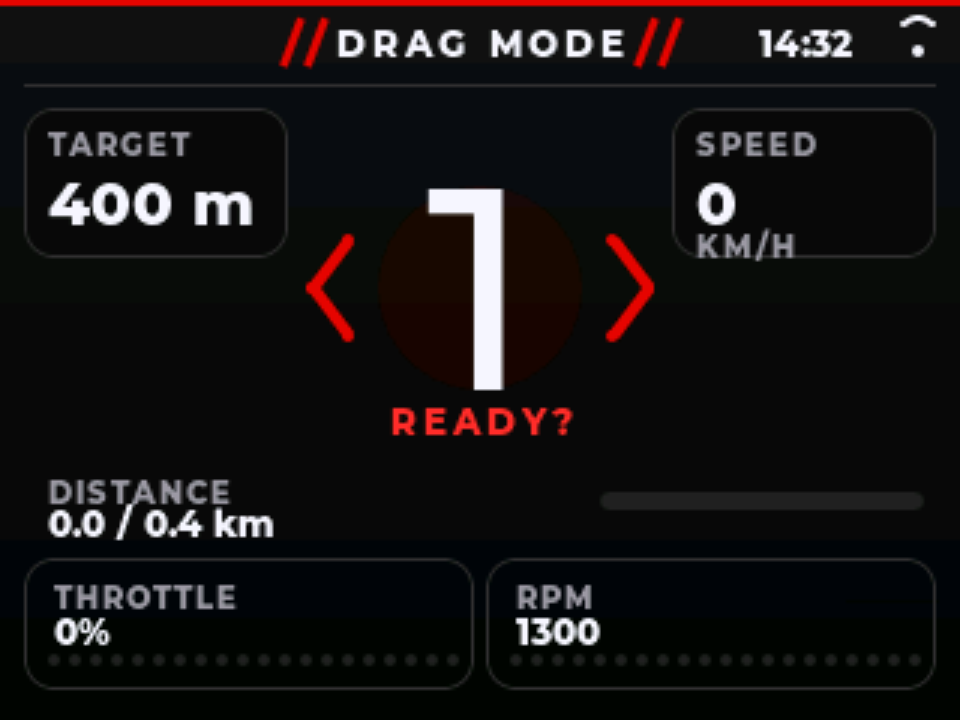
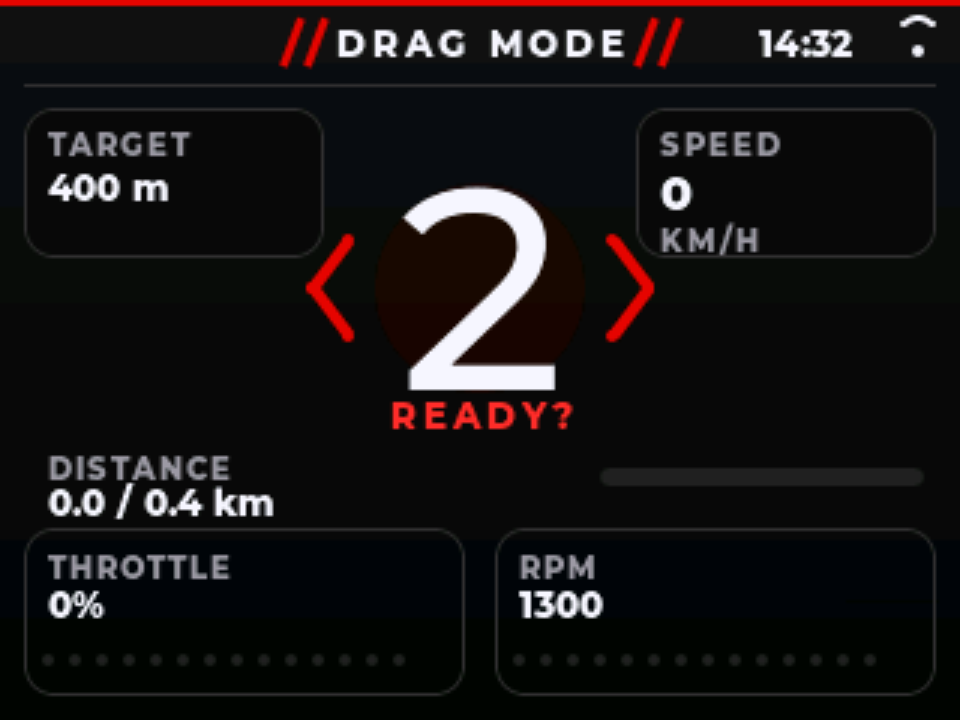
fix: tighten drag and GPS clock layouts

diff --git a/src/ui/ui_drag.cpp b/src/ui/ui_drag.cpp
@@ -39,30 +39,31 @@ void panel_card(lv_layer_t* layer, const Palette& p, int x, int y, int w, int h)
 }
 
 // Deretan titik segmen. 25% titik terakhir berwarna merah.
-void dots(lv_layer_t* layer, const Palette& p, int x, int y, int count, float level) {
+void dots(lv_layer_t* layer, const Palette& p, int x, int y, int count, float level, int span) {
+    const int step = span / (count - 1);
     for (int i = 0; i < count; ++i) {
         const float pos = (float)(i + 1) / (float)count;
         lv_color_t c = p.seg_off;
         if (pos <= level + 0.001f) c = (i >= count * 3 / 4) ? kRedBright : kWhite;
-        draw::circle(layer, x + i * 7, y, 2, c, LV_OPA_COVER);
+        draw::circle(layer, x + i * step, y, 2, c, LV_OPA_COVER);
     }
 }
 
 // Kartu throttle dan RPM di baris bawah.
 void live_cards(lv_layer_t* layer, const Palette& p, const Telemetry& t, int y, int h) {
-    panel_card(layer, p, 8, y, 150, h);
-    draw::text(layer, "THROTTLE", &font_ui_10, kMuted, 18, y + 7, draw::Align::Left, 1);
+    panel_card(layer, p, 8, y, 147, h);
+    draw::text(layer, "THROTTLE", &font_ui_10, kMuted, 16, y + 7, draw::Align::Left, 1);
     char th[12];
     std::snprintf(th, sizeof(th), "%.0f%%", t.throttle);
-    draw::text(layer, th, &font_ui_12, p.ink, 18, y + 18, draw::Align::Left, 0);
-    dots(layer, p, 18, y + h - 10, 20, clamp01(t.throttle / 100.0f));
+    draw::text(layer, th, &font_ui_12, p.ink, 16, y + 19, draw::Align::Left, 0);
+    dots(layer, p, 16, y + h - 12, 14, clamp01(t.throttle / 100.0f), 120);
 
-    panel_card(layer, p, 162, y, 150, h);
-    draw::text(layer, "RPM", &font_ui_10, kMuted, 172, y + 7, draw::Align::Left, 1);
+    panel_card(layer, p, 165, y, 147, h);
+    draw::text(layer, "RPM", &font_ui_10, kMuted, 173, y + 7, draw::Align::Left, 1);
     char rpm[12];
     std::snprintf(rpm, sizeof(rpm), "%.0f", t.rpm);
-    draw::text(layer, rpm, &font_ui_12, p.ink, 172, y + 18, draw::Align::Left, 0);
-    dots(layer, p, 172, y + h - 10, 20, clamp01((t.rpm - 1000.0f) / 8200.0f));
+    draw::text(layer, rpm, &font_ui_12, p.ink, 173, y + 19, draw::Align::Left, 0);
+    dots(layer, p, 173, y + h - 12, 14, clamp01((t.rpm - 1000.0f) / 8200.0f), 120);
 }
 
 } // namespace
@@ -140,8 +141,8 @@ void DragView::update(const DragSession& drag, const Telemetry& t, const PerfSta
             lv_obj_invalidate_area(root_, &digit);
             if (stats_accum_ >= 0.1f) {
                 stats_accum_ = 0.0f;
-                lv_area_t speed_card{222, 34, 314, 88};
-                lv_area_t cards{6, 184, 314, 232};
+                lv_area_t speed_card{210, 34, 314, 90};
+                lv_area_t cards{6, 174, 314, 232};
                 lv_obj_invalidate_area(root_, &speed_card);
                 lv_obj_invalidate_area(root_, &cards);
             }
@@ -152,9 +153,9 @@ void DragView::update(const DragSession& drag, const Telemetry& t, const PerfSta
             lv_obj_invalidate_area(root_, &timer);
             if (stats_accum_ >= 0.1f) {
                 stats_accum_ = 0.0f;
-                lv_area_t speed{6, 98, 104, 152};
-                lv_area_t distance{112, 98, 314, 142};
-                lv_area_t cards{6, 160, 314, 232};
+                lv_area_t speed{6, 94, 114, 164};
+                lv_area_t distance{114, 96, 314, 144};
+                lv_area_t cards{6, 164, 314, 232};
                 lv_obj_invalidate_area(root_, &speed);
                 lv_obj_invalidate_area(root_, &distance);
                 lv_obj_invalidate_area(root_, &cards);
@@ -164,7 +165,7 @@ void DragView::update(const DragSession& drag, const Telemetry& t, const PerfSta
         case DragPhase::Idle:
             if (stats_accum_ >= 0.1f) {
                 stats_accum_ = 0.0f;
-                lv_area_t cards{6, 180, 314, 232};
+                lv_area_t cards{6, 174, 314, 232};
                 lv_obj_invalidate_area(root_, &cards);
             }
             break;
@@ -240,41 +241,41 @@ void DragView::draw_card(lv_layer_t* layer, int x, int y, int w, int h) {
 }
 
 void DragView::draw_idle(lv_layer_t* layer) {
-    draw_card(layer, 8, 36, 88, 50);
+    draw_card(layer, 8, 36, 100, 44);
     draw::text(layer, "TARGET", &font_ui_10, kMuted, 16, 42, draw::Align::Left, 1);
     char target[16];
     format_distance(target, sizeof(target), settings_.target_distance_m);
-    draw::text(layer, target, &font_ui_20, palette_.ink, 16, 58, draw::Align::Left, 0);
+    draw::text(layer, target, &font_ui_12, palette_.ink, 16, 56, draw::Align::Left, 0);
 
-    draw_card(layer, 224, 36, 88, 50);
-    draw::text(layer, "COUNTDOWN", &font_ui_10, kMuted, 232, 42, draw::Align::Left, 1);
+    draw_card(layer, 212, 36, 100, 44);
+    draw::text(layer, "COUNTDOWN", &font_ui_10, kMuted, 220, 42, draw::Align::Left, 1);
     char cd[16];
     std::snprintf(cd, sizeof(cd), "%.1f s", (float)settings_.countdown_ms / 1000.0f);
-    draw::text(layer, cd, &font_ui_20, palette_.ink, 232, 58, draw::Align::Left, 0);
+    draw::text(layer, cd, &font_ui_12, palette_.ink, 220, 56, draw::Align::Left, 0);
 
-    draw::text_in(layer, "00:00.00", &font_timer_46, palette_.ink, 160, 84,
+    draw::text_in(layer, "00:00.00", &font_timer_46, palette_.ink, 160, 100,
                   draw::Align::Center, 1, LV_OPA_60);
-    draw::text_in(layer, "READY TO LAUNCH", &font_ui_12, kRedBright, 160, 128,
+    draw::text_in(layer, "READY TO LAUNCH", &font_ui_12, kRedBright, 160, 140,
                   draw::Align::Center, 2);
-    draw::text_in(layer, "PRESS SPACE TO ARM", &font_ui_10, kMuted, 160, 152,
+    draw::text_in(layer, "PRESS SPACE TO ARM", &font_ui_10, kMuted, 160, 158,
                   draw::Align::Center, 1);
 
-    live_cards(layer, palette_, telemetry_, 182, 48);
+    live_cards(layer, palette_, telemetry_, 176, 56);
 }
 
 void DragView::draw_countdown(lv_layer_t* layer) {
-    draw_card(layer, 8, 36, 88, 50);
+    draw_card(layer, 8, 36, 100, 50);
     draw::text(layer, "TARGET", &font_ui_10, kMuted, 16, 42, draw::Align::Left, 1);
     char target[16];
     format_distance(target, sizeof(target), settings_.target_distance_m);
-    draw::text(layer, target, &font_ui_20, palette_.ink, 16, 58, draw::Align::Left, 0);
+    draw::text(layer, target, &font_ui_12, palette_.ink, 16, 56, draw::Align::Left, 0);
 
-    draw_card(layer, 224, 36, 88, 50);
-    draw::text(layer, "SPEED", &font_ui_10, kMuted, 232, 42, draw::Align::Left, 1);
+    draw_card(layer, 212, 36, 100, 50);
+    draw::text(layer, "SPEED", &font_ui_10, kMuted, 220, 42, draw::Align::Left, 1);
     char spd[16];
     std::snprintf(spd, sizeof(spd), "%.0f", speed_);
-    draw::text(layer, spd, &font_ui_20, palette_.ink, 232, 58, draw::Align::Left, 0);
-    draw::text(layer, "KM/H", &font_ui_10, kMuted, 232, 76, draw::Align::Left, 1);
+    draw::text(layer, spd, &font_ui_16, palette_.ink, 220, 56, draw::Align::Left, 0);
+    draw::text(layer, "KM/H", &font_ui_10, kMuted, 220, 74, draw::Align::Left, 1);
 
     // Angka hitung mundur di tengah, dengan cahaya merah di belakang.
     const float pulse = 0.5f + 0.5f * std::sin(anim_ * 2.0f);
@@ -292,19 +293,19 @@ void DragView::draw_countdown(lv_layer_t* layer) {
     draw::text_in(layer, digit, &font_count_96, kWhite, 160, 96, draw::Align::Center, 0);
 
     draw::text_in(layer, countdown_digit_ > 0 ? "READY?" : "LAUNCH", &font_ui_12, kRedBright,
-                  160, 140, draw::Align::Center, 2);
+                  160, 138, draw::Align::Center, 2);
 
     // Baris jarak dengan bar progres.
-    draw::text(layer, "DISTANCE", &font_ui_10, kMuted, 16, 158, draw::Align::Left, 1);
+    draw::text(layer, "DISTANCE", &font_ui_10, kMuted, 16, 150, draw::Align::Left, 1);
     char dist[40];
     std::snprintf(dist, sizeof(dist), "%.1f / %.1f km", distance_ / 1000.0f,
                   settings_.target_distance_m / 1000.0f);
-    draw::text(layer, dist, &font_ui_12, palette_.ink, 16, 168, draw::Align::Left, 0);
-    draw::rect(layer, 200, 164, 108, 6, 3, palette_.seg_off, LV_OPA_COVER);
+    draw::text(layer, dist, &font_ui_12, palette_.ink, 16, 161, draw::Align::Left, 0);
+    draw::rect(layer, 200, 156, 108, 6, 3, palette_.seg_off, LV_OPA_COVER);
     const int fill = (int)std::lround(108 * clamp01(progress_));
-    if (fill > 0) draw::rect(layer, 200, 164, fill, 6, 3, kRed, LV_OPA_COVER);
+    if (fill > 0) draw::rect(layer, 200, 156, fill, 6, 3, kRed, LV_OPA_COVER);
 
-    live_cards(layer, palette_, telemetry_, 186, 44);
+    live_cards(layer, palette_, telemetry_, 176, 56);
 }
 
 void DragView::draw_running(lv_layer_t* layer) {
@@ -319,39 +320,39 @@ void DragView::draw_running(lv_layer_t* layer) {
 
     char time_buf[16];
     format_time(time_buf, sizeof(time_buf), elapsed_);
-    draw::text_in(layer, time_buf, &font_timer_46, paused ? kRedBright : palette_.ink, 160, 70,
-                  draw::Align::Center, 1);
+    draw::text_in(layer, time_buf, &font_timer_46, paused ? kRedBright : palette_.ink, 160, 66,
+                  draw::Align::Center, 0);
 
     // Kartu kecepatan.
-    draw_card(layer, 8, 100, 92, 50);
-    draw::text(layer, "SPEED", &font_ui_10, kMuted, 16, 106, draw::Align::Left, 1);
+    draw_card(layer, 8, 96, 104, 64);
+    draw::text(layer, "SPEED", &font_ui_10, kMuted, 16, 102, draw::Align::Left, 1);
     char speed[16];
     std::snprintf(speed, sizeof(speed), "%.0f", speed_);
-    draw::text(layer, speed, &font_ui_20, palette_.ink, 16, 118, draw::Align::Left, 0);
-    draw::text(layer, "KM/H", &font_ui_10, kMuted, 16, 139, draw::Align::Left, 1);
+    draw::text(layer, speed, &font_ui_20, palette_.ink, 16, 114, draw::Align::Left, 0);
+    draw::text(layer, "KM/H", &font_ui_10, kMuted, 16, 140, draw::Align::Left, 1);
 
     // Jarak, PB, dan bar progres.
-    draw::text(layer, "DISTANCE", &font_ui_10, kMuted, 116, 102, draw::Align::Left, 1);
+    draw::text(layer, "DISTANCE", &font_ui_10, kMuted, 122, 100, draw::Align::Left, 1);
     if (best_ > 0.0f) {
         char bt[16];
         char pb[32];
         format_time(bt, sizeof(bt), best_);
         std::snprintf(pb, sizeof(pb), "PB %s", bt);
-        draw::text(layer, pb, &font_ui_10, kMuted, 308, 102, draw::Align::Right, 0);
+        draw::text(layer, pb, &font_ui_10, kMuted, 312, 100, draw::Align::Right, 0);
     }
     char dist[40];
     std::snprintf(dist, sizeof(dist), "%.2f / %.1f km", distance_ / 1000.0f,
                   settings_.target_distance_m / 1000.0f);
-    draw::text(layer, dist, &font_ui_12, palette_.ink, 116, 114, draw::Align::Left, 0);
+    draw::text(layer, dist, &font_ui_12, palette_.ink, 122, 112, draw::Align::Left, 0);
 
-    const int bar_x = 116;
-    const int bar_w = 196;
-    draw::rect(layer, bar_x, 132, bar_w, 6, 3, palette_.seg_off, LV_OPA_COVER);
+    const int bar_x = 122;
+    const int bar_w = 190;
+    draw::rect(layer, bar_x, 136, bar_w, 6, 3, palette_.seg_off, LV_OPA_COVER);
     const int fill = (int)std::lround(bar_w * clamp01(progress_));
-    if (fill > 0) draw::rect(layer, bar_x, 132, fill, 6, 3, kRed, LV_OPA_COVER);
-    draw::circle(layer, bar_x + fill, 135, 4, kWhite, LV_OPA_COVER);
+    if (fill > 0) draw::rect(layer, bar_x, 136, fill, 6, 3, kRed, LV_OPA_COVER);
+    draw::circle(layer, bar_x + fill, 139, 4, kWhite, LV_OPA_COVER);
 
-    live_cards(layer, palette_, telemetry_, 162, 68);
+    live_cards(layer, palette_, telemetry_, 166, 64);
 }
 
 void DragView::draw_finished(lv_layer_t* layer) {

diff --git a/src/ui/ui_gps_clock.cpp b/src/ui/ui_gps_clock.cpp
@@ -24,10 +24,10 @@ void panel_card(lv_layer_t* layer, const Palette& p, int x, int y, int w, int h)
 void stat_card(lv_layer_t* layer, const Palette& p, int x, int y, int w, int h,
                const char* label, const char* value, const char* unit) {
     panel_card(layer, p, x, y, w, h);
-    draw::text(layer, label, &font_ui_10, kMuted, x + 10, y + 8, draw::Align::Left, 1);
-    draw::text(layer, value, &font_ui_20, kWhite, x + 10, y + 22, draw::Align::Left, 0);
-    const int32_t vw = draw::text_width(value, &font_ui_20, 0);
-    draw::text(layer, unit, &font_ui_10, kMuted, x + 10 + vw + 4, y + 30, draw::Align::Left, 0);
+    draw::text(layer, label, &font_ui_10, kMuted, x + 8, y + 7, draw::Align::Left, 1);
+    draw::text(layer, value, &font_ui_12, kWhite, x + 8, y + 22, draw::Align::Left, 0);
+    const int32_t vw = draw::text_width(value, &font_ui_12, 0);
+    draw::text(layer, unit, &font_ui_10, kMuted, x + 8 + vw + 3, y + 28, draw::Align::Left, 0);
 }
 
 } // namespace
@@ -156,12 +156,13 @@ void GpsClockView::draw_compass(lv_layer_t* layer) {
 void GpsClockView::draw_stats(lv_layer_t* layer) {
     // Kartu ketinggian dengan ikon gunung sederhana.
     panel_card(layer, palette_, 240, 34, 72, 98);
-    draw::text_in(layer, "ALTITUDE", &font_ui_10, kMuted, 276, 46, draw::Align::Center, 1);
+    draw::text_in(layer, "ALTITUDE", &font_ui_10, kMuted, 276, 44, draw::Align::Center, 1);
     char alt[16];
-    std::snprintf(alt, sizeof(alt), "%.0f m", telemetry_.altitude_m);
-    draw::text_in(layer, alt, &font_ui_20, kWhite, 276, 66, draw::Align::Center, 0);
-    draw::triangle(layer, 252.0f, 120.0f, 268.0f, 96.0f, 284.0f, 120.0f, kMuted, LV_OPA_50);
-    draw::triangle(layer, 268.0f, 120.0f, 278.0f, 106.0f, 288.0f, 120.0f, kMuted, LV_OPA_COVER);
+    std::snprintf(alt, sizeof(alt), "%.0f", telemetry_.altitude_m);
+    draw::text_in(layer, alt, &font_ui_12, kWhite, 268, 60, draw::Align::Center, 0);
+    draw::text_in(layer, "m", &font_ui_10, kMuted, 288, 61, draw::Align::Center, 0);
+    draw::triangle(layer, 252.0f, 120.0f, 268.0f, 100.0f, 284.0f, 120.0f, kMuted, LV_OPA_50);
+    draw::triangle(layer, 266.0f, 120.0f, 276.0f, 108.0f, 286.0f, 120.0f, kMuted, LV_OPA_COVER);
 
     // Baris statistik bawah.
     char trip[16];

diff --git a/src/ui/ui_draw.cpp b/src/ui/ui_draw.cpp
@@ -28,7 +28,7 @@ void text(lv_layer_t* layer, const char* txt, const lv_font_t* font, lv_color_t 
     if (align == Align::Center) x -= size.x / 2;
     else if (align == Align::Right) x -= size.x;
 
-    lv_area_t coords{x, y, x + size.x - 1, y + size.y - 1};
+    lv_area_t coords{x, y, x + size.x + 1, y + size.y + 1};
     lv_draw_label_dsc_t dsc;
     lv_draw_label_dsc_init(&dsc);
     dsc.text = txt;

diff --git a/README.md b/README.md
@@ -128,7 +128,7 @@ digambar**, bukan per frame loop. Frame tanpa invalidasi tidak dihitung.
 | Speedometer | 24.325 / 3,0 | 570/570 | 0,49 ms | 0,88 ms | 11,9 ms / 60 FPS |
 | Navigasi | 76.800 / 6,0 | 271/570 | 0,58 ms | 1,50 ms | 35,6 ms / 28 FPS |
 | GPS clock | 12.377 / 2,0 | 570/570 | 0,13 ms | 0,29 ms | 6,5 ms / 60 FPS |
-| Drag (idle) | 16.377 / 2,0 | 71/570 | 0,03 ms | 0,16 ms | 8,3 ms / 60 FPS |
+| Drag (idle) | 18.231 / 2,0 | 71/570 | 0,03 ms | 0,16 ms | 9,1 ms / 60 FPS |
 
 Navigasi menginvalidasi seluruh peta, tetapi hanya 30 kali per detik. Pada SPI 40 MHz
 satu frame penuh 320x240 RGB565 butuh sekitar 30,7 ms hanya untuk transfer, sehingga

diff --git a/PROJECT_STATUS.md b/PROJECT_STATUS.md
@@ -51,7 +51,7 @@ Firmware terakhir:
 | Speedometer | 24.325 / 3,0 | 11,9 ms / 60 FPS |
 | Navigasi | 76.800 / 6,0 | 35,6 ms / 28 FPS |
 | GPS clock | 12.377 / 2,0 | 6,5 ms / 60 FPS |
-| Drag idle | 16.377 / 2,0 | 8,3 ms / 60 FPS |
+| Drag idle | 18.231 / 2,0 | 9,1 ms / 60 FPS |
 
 Angka ESP32 adalah model, bukan pengukuran perangkat.
 
